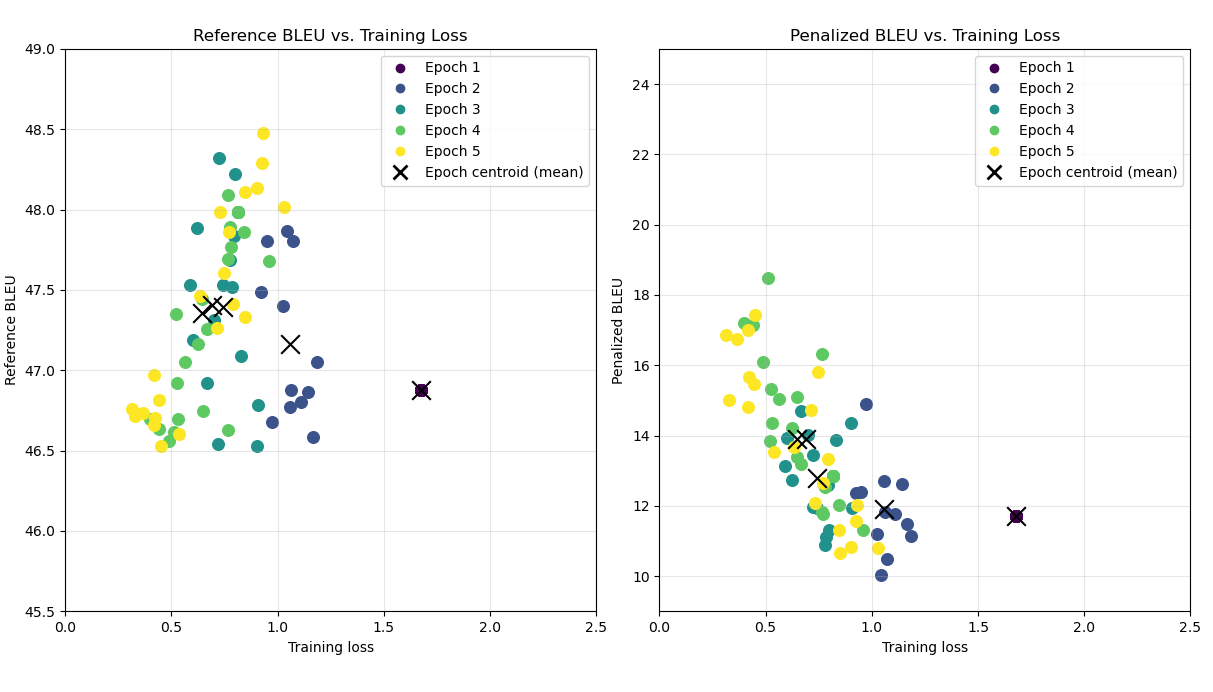
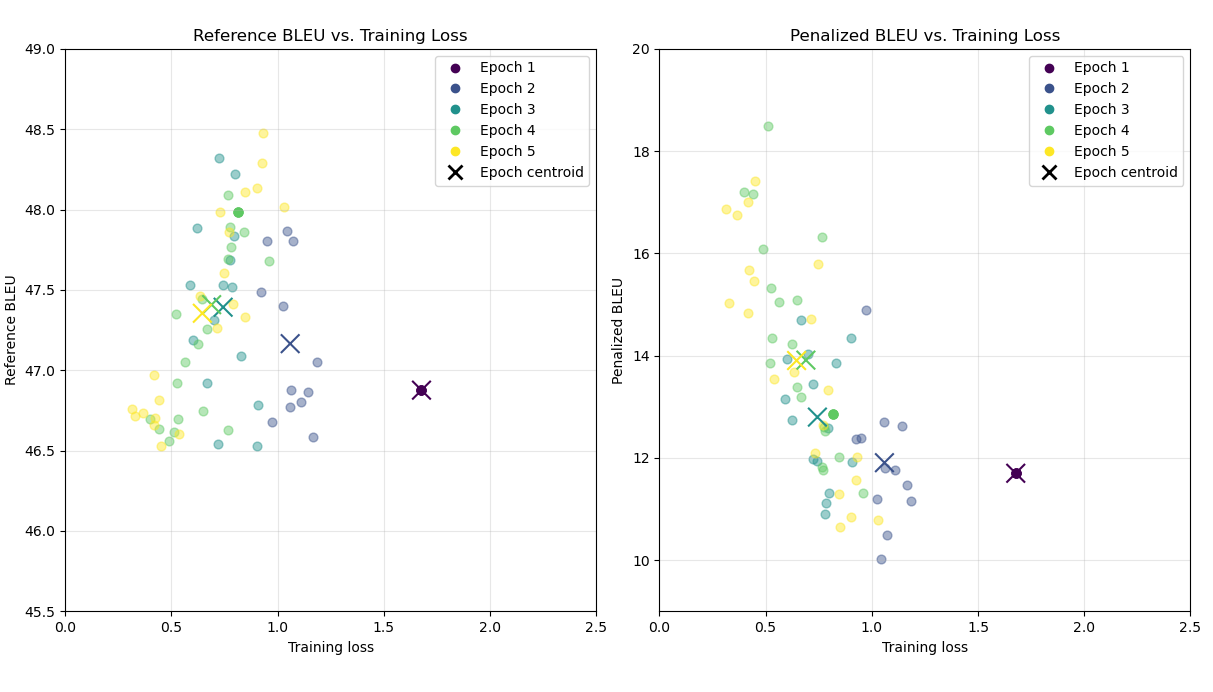
Added loss plots to the md

diff --git a/paraphrase_generation/exp_result_explorer.py b/paraphrase_generation/exp_result_explorer.py
@@ -178,8 +178,8 @@ def scatter_plot_losses(show=True):
     df = pd.read_csv(TRAINING_RESULTS_PATH)
     # ref_lim = 40
     # pen_lim = 0
-    ref_lim = 46.5
-    pen_lim = 10
+    ref_lim, ref_max = 46.5, 49
+    pen_lim, pen_max = 10, 20
     df = df[df["dev_reference_bleu"] >= ref_lim]
     df = df[df["dev_penalized_bleu"] >= pen_lim]
     df = df[df["loss"] <= 2.5]
@@ -255,7 +255,7 @@ def scatter_plot_losses(show=True):
         xlabel="Training loss",
         ylabel="Reference BLEU",
         xlim=(0, 2.5),
-        ylim=(ref_lim-1, 49),
+        ylim=(ref_lim-1, ref_max),
     )
 
     pen_axis.set(
@@ -263,7 +263,7 @@ def scatter_plot_losses(show=True):
         xlabel="Training loss",
         ylabel="Penalized BLEU",
         xlim=(0, 2.5),
-        ylim=(pen_lim - 1, 25),
+        ylim=(pen_lim - 1, pen_max),
     )
 
     for axis in (ref_axis, pen_axis):

diff --git a/PARAPHRASE_GENERATION_LR_SCHEDULERS.md b/PARAPHRASE_GENERATION_LR_SCHEDULERS.md
@@ -295,6 +295,10 @@ Source: [run_5epoch_results.csv](paraphrase_generation/run_5epoch_results.csv), 
 
 ### Ref/Pen Bleu vs Loss
 
+![Text 1](paraphrase_generation/figure/loss_bleu_scatter.png)
+
+![Text 2](paraphrase_generation/figure/loss_bleu_scatter_87.png)
+
 ## Discussions
 
 The question arises: why did we fail? The obvious reason is that we didn't have enough epochs to schedule meaningfully. Had we had 50 epochs, this could have ad an impackt. However this doesn't explain the whole picture. For example, why do we get significantly worse $Reference BLEU$ after improving $Penalty BLEU$
